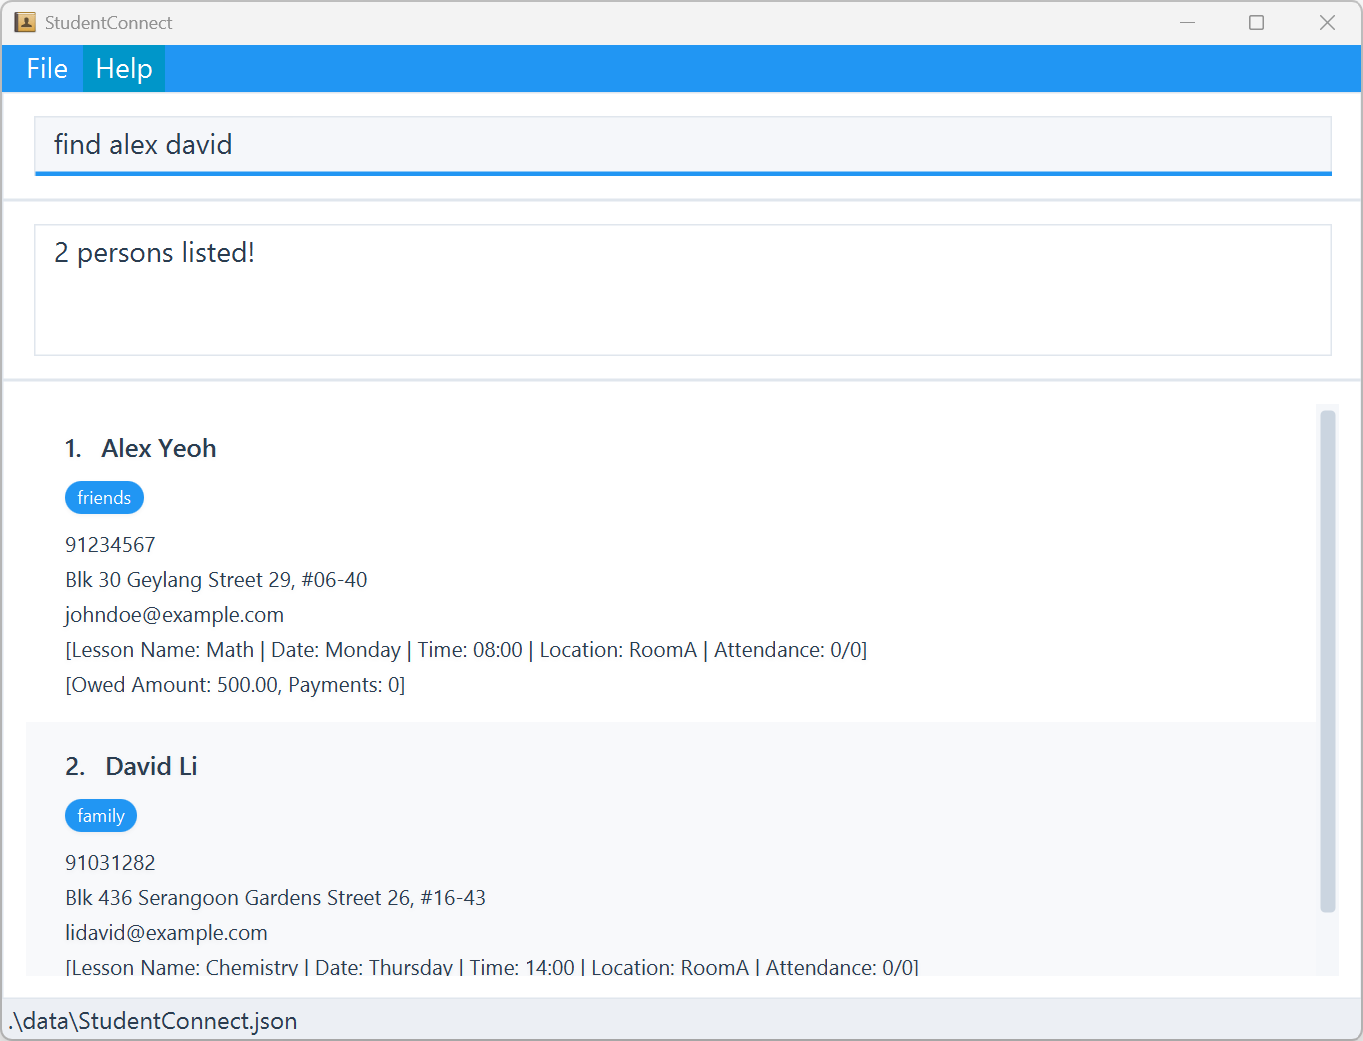
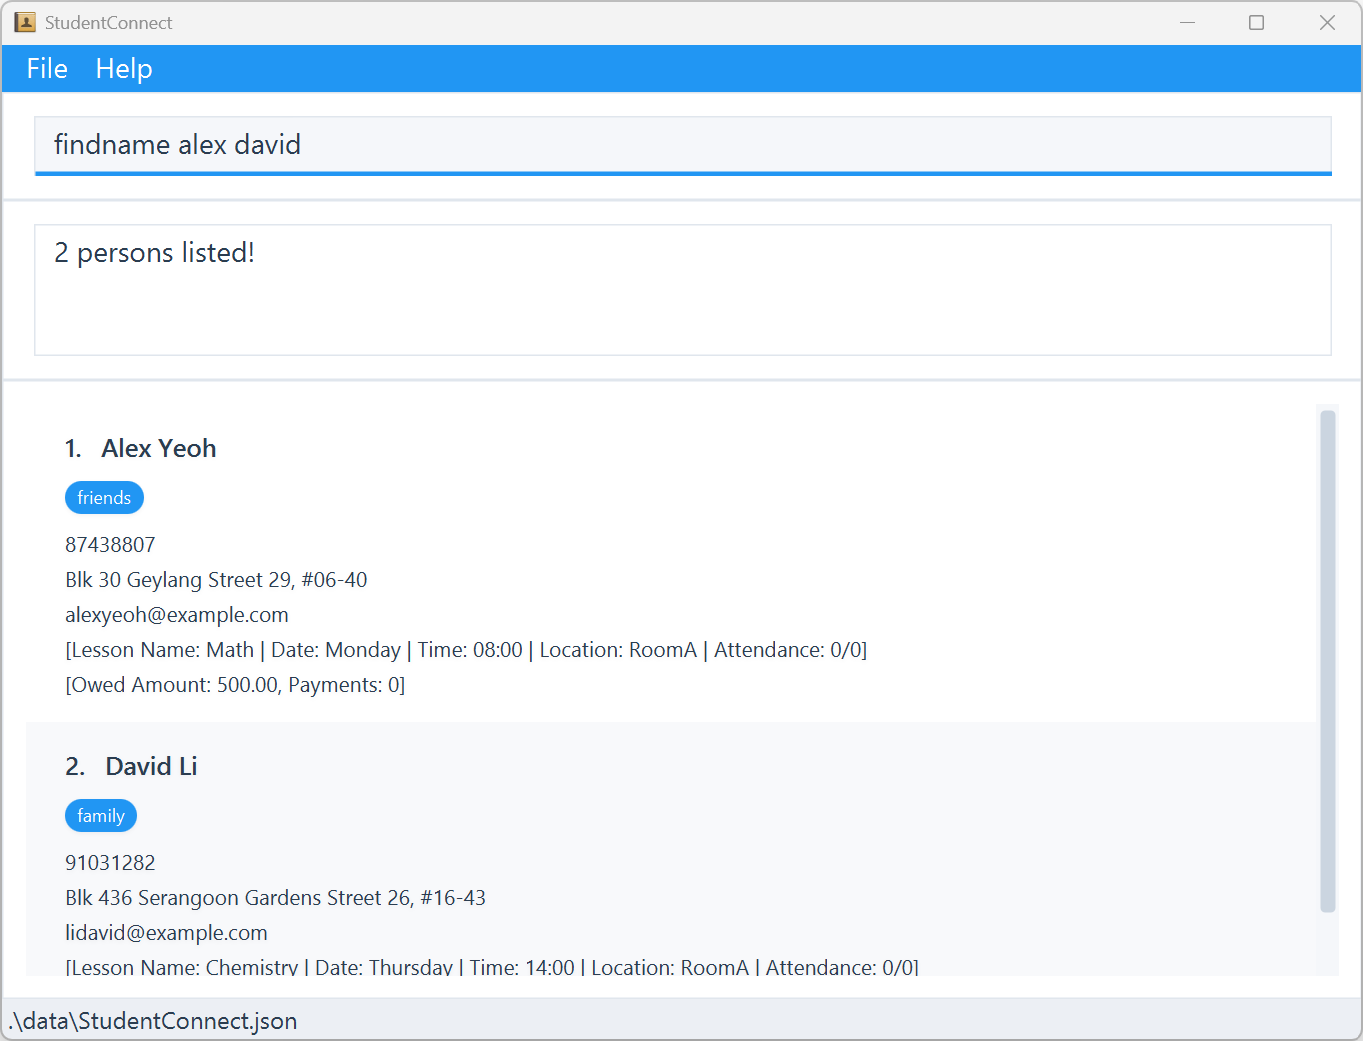
Update find to findname

diff --git a/src/main/java/seedu/address/logic/commands/FindCommand.java b/src/main/java/seedu/address/logic/commands/FindCommand.java
@@ -13,7 +13,7 @@ import seedu.address.model.person.NameContainsKeywordsPredicate;
  */
 public class FindCommand extends Command {
 
-    public static final String COMMAND_WORD = "find";
+    public static final String COMMAND_WORD = "findname";
 
     public static final String MESSAGE_USAGE = COMMAND_WORD + ": Finds all persons whose names contain any of "
             + "the specified keywords (case-insensitive) and displays them as a list with index numbers.\n"

diff --git a/docs/UserGuide.md b/docs/UserGuide.md
@@ -187,13 +187,13 @@ edit 1 p/91234567 e/johndoe@example.com
 <p><em>Edits the phone number and email address of the 1st person to be <code>91234567</code> and
     <code>johndoe@example.com</code> respectively</em></p>
 
-### Finding students by name : `find`
+### Finding students by name : `findname`
 
 **Finds existing students by name** in StudentConnect.
 
 Format:
 ```
-find KEYWORD [MORE_KEYWORDS]...
+findname KEYWORD [MORE_KEYWORDS]...
 ```
 
 > 💡 **Tip:**
@@ -205,7 +205,7 @@ find KEYWORD [MORE_KEYWORDS]...
 
 Example:
 ```
-find alex david
+findname alex david
 ```
 <div style="display: flex; justify-content: space-between; align-items: center;">
   <img src="images/findAlexDavidResult.png" alt="findAlexDavidResult" style="width:80%;">
@@ -608,7 +608,7 @@ manually.
 |----------------------------------|-----------------------------------------------------------------------------------------------------------------------------------------------------|
 | **Adding student**               | `add n/NAME p/PHONE e/EMAIL addr/ADDRESS [tag/TAG]…` <br> e.g., `add n/John Doe p/98765432 e/johnd@example.com addr/John street, block 123, #01-01` |
 | **Editing student**              | `edit INDEX [n/NAME] [p/PHONE] [e/EMAIL] [addr/ADDRESS] [tag/TAG]…`<br> e.g.,`edit 1 p/91234567 e/johndoe@example.com`                              |
-| **Finding students by name**     | `find KEYWORD [MORE_KEYWORDS]...`<br> e.g., `find alex david`                                                                                       |
+| **Finding students by name**     | `findname KEYWORD [MORE_KEYWORDS]...`<br> e.g., `findname alex david`                                                                               |
 | **Finding students by tag**      | `findtag TAG_NAME [MORE_TAGNAMES]...`<br> e.g., `findtag friends`                                                                                   |
 | **Deleting student**             | `delete INDEX`<br> e.g., `delete 1`                                                                                                                 |
 | **Listing all students**         | `list`<br> e.g., `list`                                                                                                                             |
